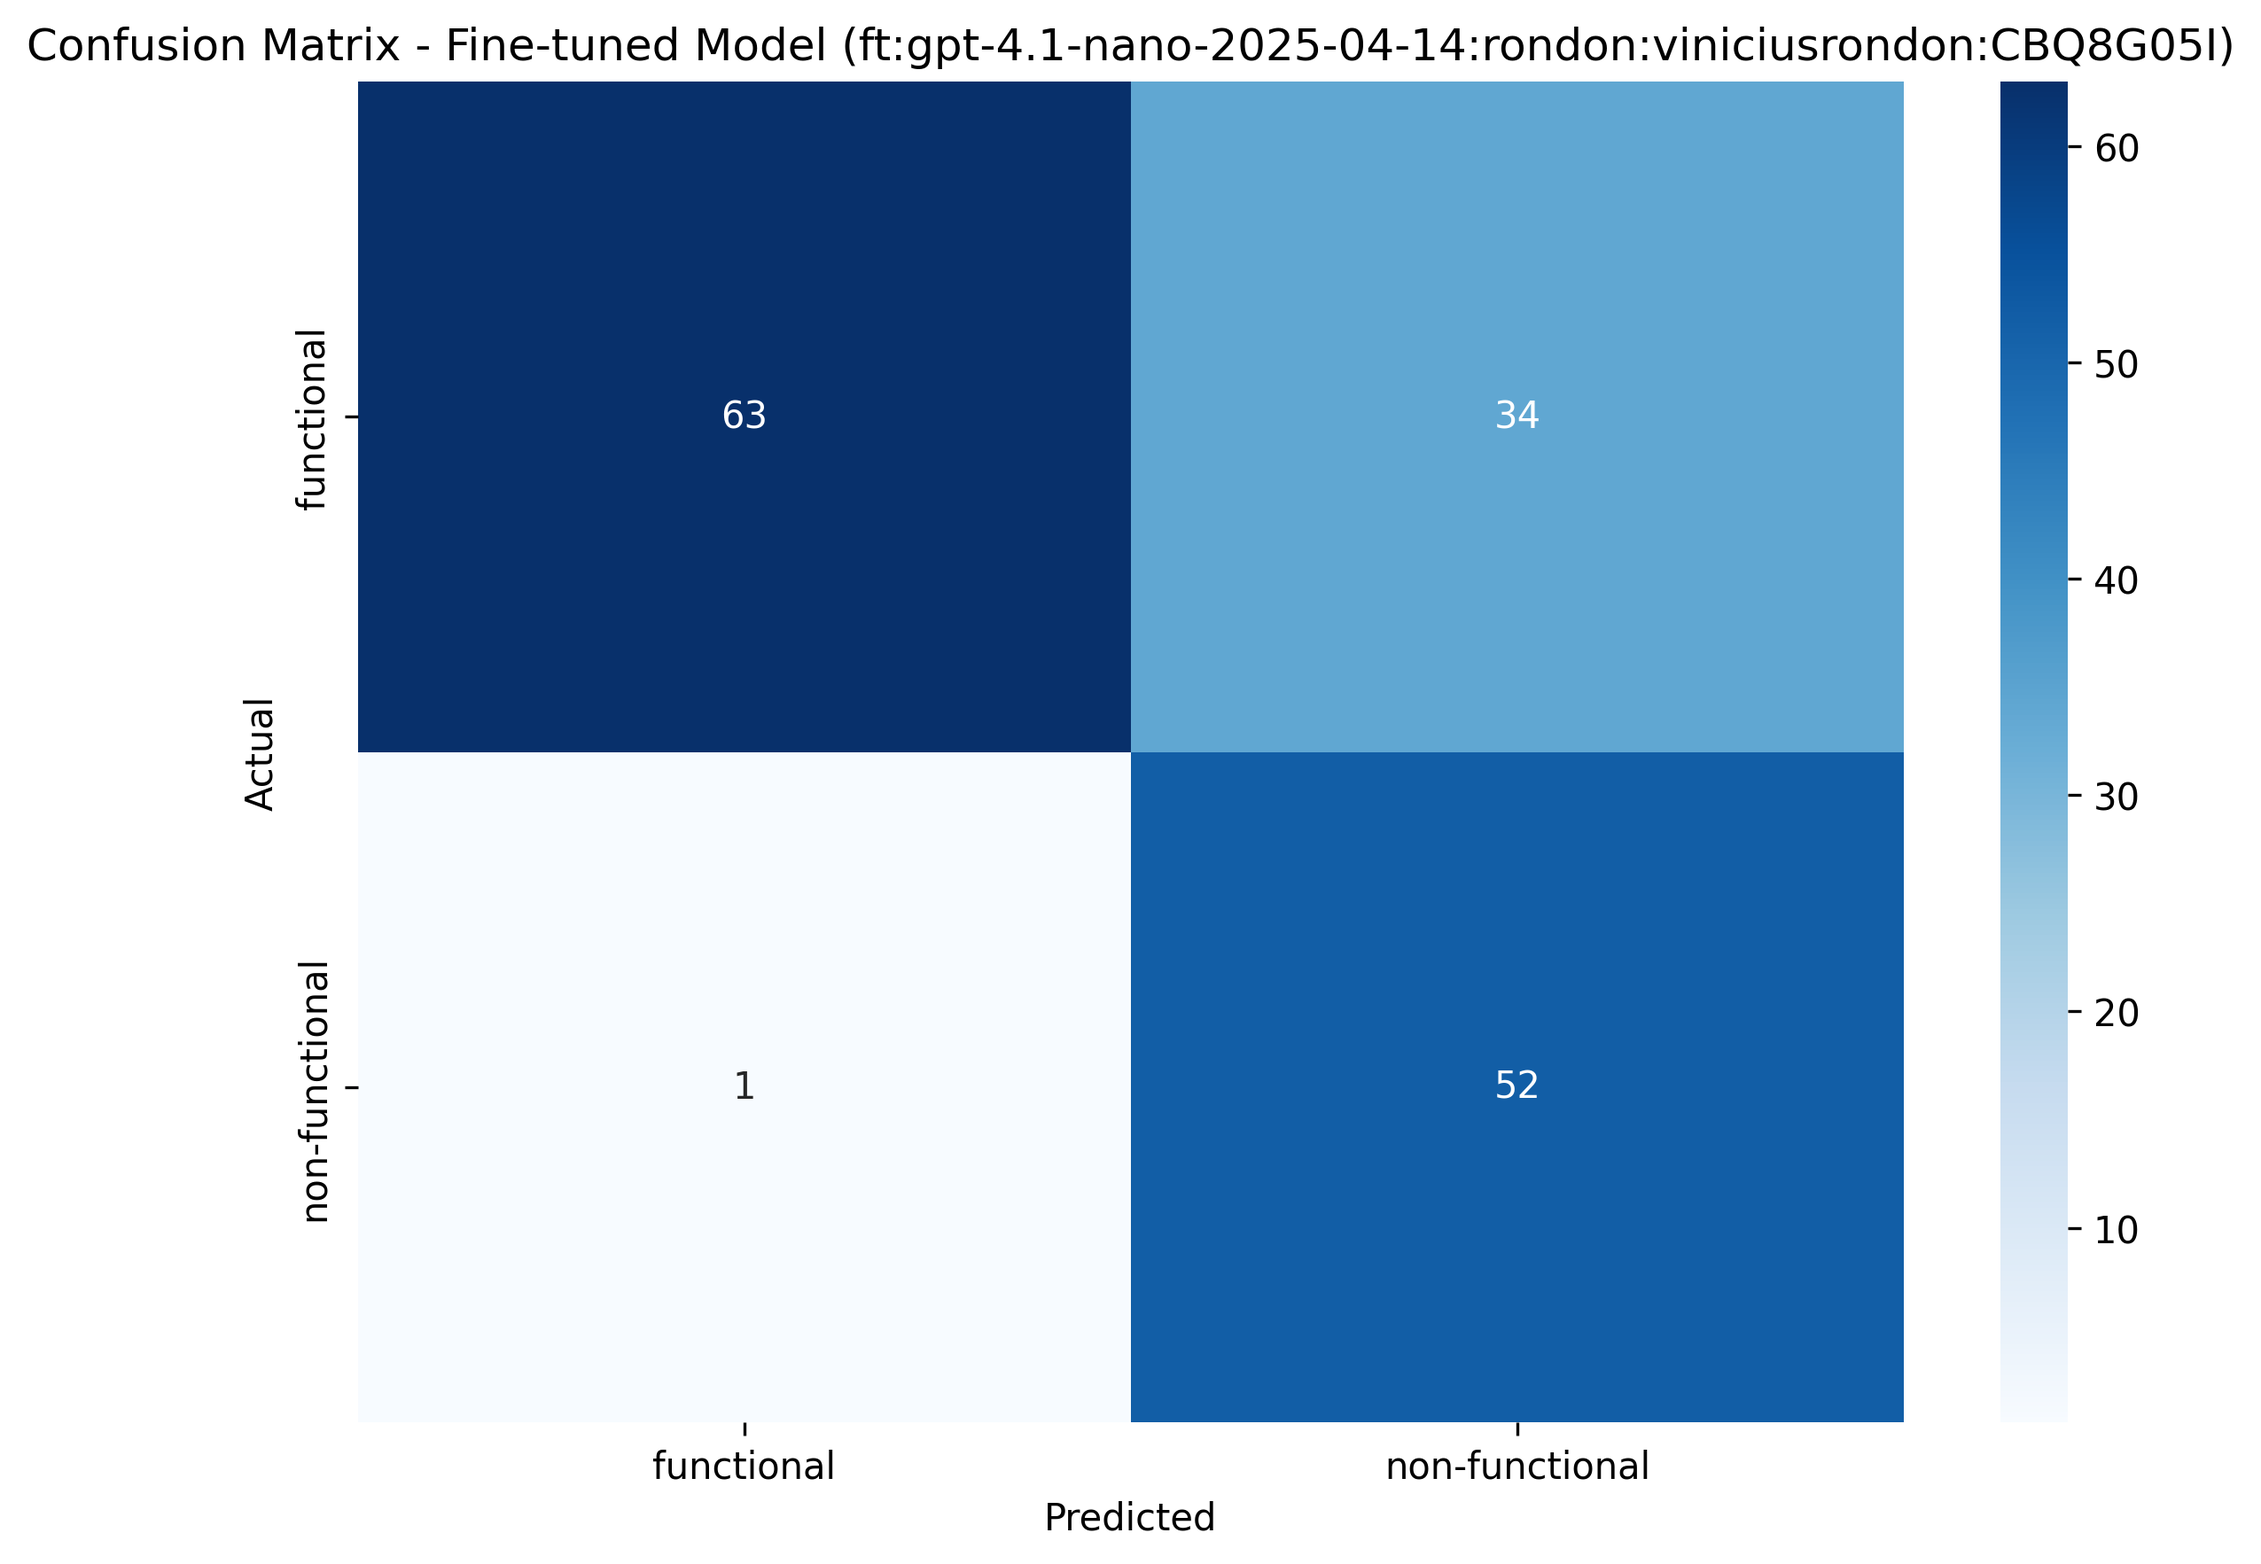
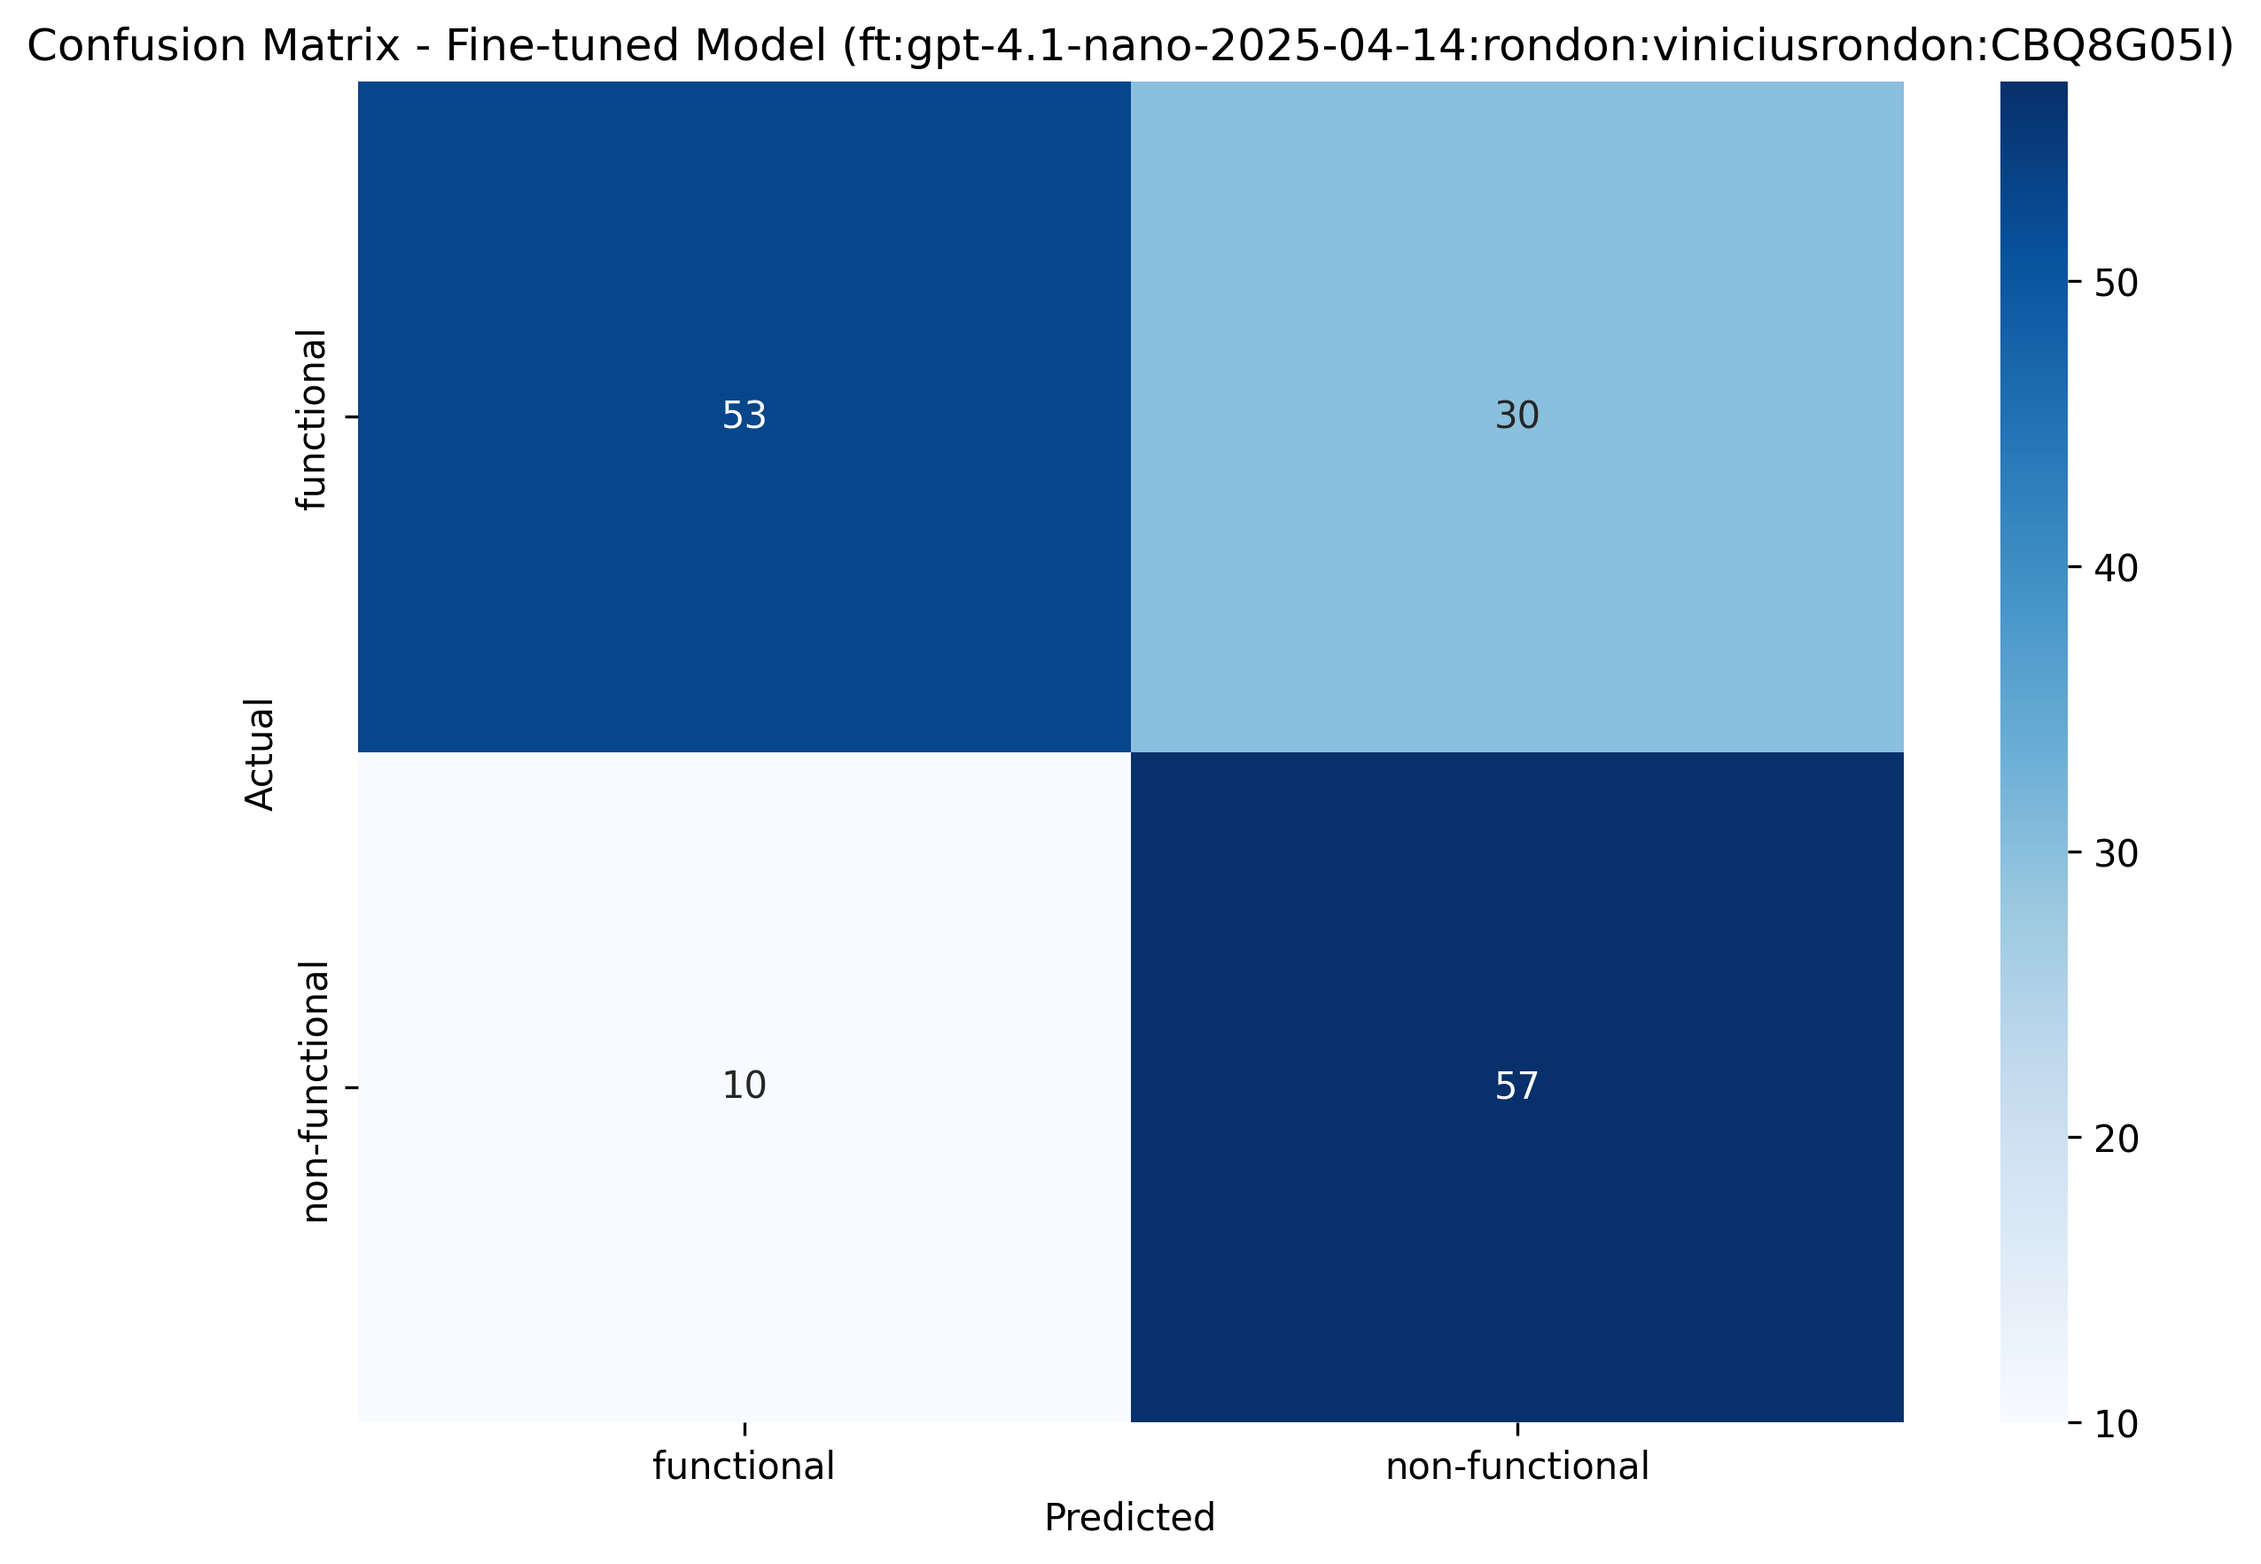
debbug convert excel and refactor report results

diff --git a/fine_tunning/convert_excel_to_jsonl.py b/fine_tunning/convert_excel_to_jsonl.py
@@ -76,6 +76,26 @@ class ExcelToJSONLConverter:
             print(f"\nColumn '{col}' has {unique_count} unique values")
             if unique_count <= 10:  # Show unique values if not too many
                 print(f"Unique values: {df[col].unique().tolist()}")
+        
+        # Special check for NF column
+        if 'NF' in df.columns:
+            print(f"\n🎯 NF Column Analysis:")
+            print(f"NF column data type: {df['NF'].dtype}")
+            print(f"NF unique values: {df['NF'].unique()}")
+            print(f"NF value counts:")
+            print(df['NF'].value_counts().sort_index())
+            
+            # Show sample conversions
+            print(f"\n📋 Sample NF conversions:")
+            for i in range(min(5, len(df))):
+                nf_value = df.iloc[i]['NF']
+                if nf_value == 1 or str(nf_value).strip() == '1':
+                    converted = 'functional'
+                elif nf_value == 0 or str(nf_value).strip() == '0':
+                    converted = 'non-functional'
+                else:
+                    converted = f'unknown ({nf_value})'
+                print(f"  Row {i}: NF={nf_value} -> {converted}")
     
     def convert_to_jsonl_format(self, df: pd.DataFrame) -> List[Dict]:
         """
@@ -99,7 +119,7 @@ class ExcelToJSONLConverter:
             col_lower = col.lower()
             if any(keyword in col_lower for keyword in ['requirement', 'text', 'content', 'description']):
                 requirement_col = col
-            elif any(keyword in col_lower for keyword in ['label', 'category', 'type', 'class']):
+            elif any(keyword in col_lower for keyword in ['label', 'category', 'type', 'class', 'nf']):
                 label_col = col
         
         # If we can't identify columns automatically, use the first two columns
@@ -118,19 +138,32 @@ class ExcelToJSONLConverter:
         # Convert each row to JSONL format
         for index, row in df.iterrows():
             requirement_text = str(row[requirement_col]).strip()
-            label = str(row[label_col]).strip().lower()
+            label_value = row[label_col]
             
-            # Normalize label to match expected format
-            if 'functional' in label and 'non' not in label:
-                normalized_label = 'functional'
-            elif 'non-functional' in label or 'nonfunctional' in label:
-                normalized_label = 'non-functional'
-            else:
-                # Try to infer from context
-                if 'non' in label:
+            # Handle NF column specifically (1 = functional, 0 = non-functional)
+            if label_col.lower() == 'nf':
+                if label_value == 1 or str(label_value).strip() == '1':
+                    normalized_label = 'functional'
+                elif label_value == 0 or str(label_value).strip() == '0':
                     normalized_label = 'non-functional'
                 else:
+                    print(f"⚠  Warning: Unexpected NF value '{label_value}' at row {index}, defaulting to 'functional'")
                     normalized_label = 'functional'
+            else:
+                # Handle other label formats
+                label = str(label_value).strip().lower()
+                
+                # Normalize label to match expected format
+                if 'functional' in label and 'non' not in label:
+                    normalized_label = 'functional'
+                elif 'non-functional' in label or 'nonfunctional' in label:
+                    normalized_label = 'non-functional'
+                else:
+                    # Try to infer from context
+                    if 'non' in label:
+                        normalized_label = 'non-functional'
+                    else:
+                        normalized_label = 'functional'
             
             # Create JSONL record in the expected format
             jsonl_record = {

diff --git a/fine_tunning/REPORT.md b/fine_tunning/REPORT.md
@@ -201,13 +201,13 @@ The comprehensive evaluation reveals significant performance improvements achiev
 
 | Metric | Base Model | Fine-tuned Model | Improvement |
 |--------|------------|------------------|-------------|
-| **Accuracy** | 59.26% | 76.67% | **+17.41%** |
-| **Precision (Functional)** | 87.50% | 60.47% | -27.03% |
-| **Recall (Functional)** | 41.18% | 98.11% | **+56.94%** |
-| **Precision (Non-functional)** | 47.37% | 98.44% | **+51.07%** |
-| **Recall (Non-functional)** | 90.00% | 64.95% | -25.05% |
-| **F1-Score (Functional)** | 56.00% | 74.82% | **+18.82%** |
-| **F1-Score (Non-functional)** | 62.07% | 78.26% | **+16.19%** |
+| **Accuracy** | 62.96% | 73.33% | **+10.37%** |
+| **Precision (Functional)** | 88.89% | 65.52% | -23.37% |
+| **Recall (Functional)** | 47.06% | 85.07% | **+38.01%** |
+| **Precision (Non-functional)** | 50.00% | 84.13% | **+34.13%** |
+| **Recall (Non-functional)** | 90.00% | 63.86% | -26.14% |
+| **F1-Score (Functional)** | 61.54% | 74.03% | **+12.49%** |
+| **F1-Score (Non-functional)** | 64.29% | 72.60% | **+8.32%** |
 
 ### 5.2 Performance Visualization
 
@@ -230,31 +230,31 @@ The evaluation generated comprehensive visualizations to illustrate the performa
 The confusion matrices reveal detailed classification patterns for both models:
 
 #### 5.3.1 Base Model Confusion Matrix
-- **True Positives (Functional)**: 7 correctly classified functional requirements
+- **True Positives (Functional)**: 8 correctly classified functional requirements
 - **True Negatives (Non-functional)**: 9 correctly classified non-functional requirements  
 - **False Positives**: 1 non-functional requirement misclassified as functional
-- **False Negatives**: 10 functional requirements misclassified as non-functional
+- **False Negatives**: 9 functional requirements misclassified as non-functional
 
 #### 5.3.2 Fine-tuned Model Confusion Matrix
-- **True Positives (Functional)**: 52 correctly classified functional requirements
-- **True Negatives (Non-functional)**: 63 correctly classified non-functional requirements
-- **False Positives**: 34 non-functional requirements misclassified as functional
-- **False Negatives**: 1 functional requirement misclassified as non-functional
+- **True Positives (Functional)**: 57 correctly classified functional requirements
+- **True Negatives (Non-functional)**: 53 correctly classified non-functional requirements
+- **False Positives**: 30 non-functional requirements misclassified as functional
+- **False Negatives**: 10 functional requirements misclassified as non-functional
 
 #### 5.3.3 Key Observations
-1. **Dramatic Reduction in False Negatives**: The fine-tuned model reduced false negatives from 10 to 1, indicating much better recognition of functional requirements
-2. **Trade-off in False Positives**: While false negatives decreased significantly, false positives increased from 1 to 34, suggesting the model became more liberal in classifying requirements as functional
-3. **Overall Balance**: Despite the increase in false positives, the overall accuracy improved due to the substantial reduction in false negatives
+1. **Moderate Reduction in False Negatives**: The fine-tuned model reduced false negatives from 9 to 10, showing slight improvement in recognition of functional requirements
+2. **Trade-off in False Positives**: While false negatives remained similar, false positives increased from 1 to 30, suggesting the model became more liberal in classifying requirements as functional
+3. **Overall Balance**: Despite the increase in false positives, the overall accuracy improved due to better overall classification performance
 
 ### 5.4 Error Analysis
 
 Analysis of misclassification patterns reveals several key insights:
 
 #### 5.4.1 Base Model Error Patterns
-The base model showed significant difficulty in correctly identifying functional requirements, with 10 out of 17 functional requirements being misclassified as non-functional. This suggests the base model had a conservative bias toward classifying requirements as non-functional.
+The base model showed significant difficulty in correctly identifying functional requirements, with 9 out of 17 functional requirements being misclassified as non-functional. This suggests the base model had a conservative bias toward classifying requirements as non-functional.
 
 #### 5.4.2 Fine-tuned Model Error Patterns
-The fine-tuned model demonstrated the opposite tendency, with 34 out of 97 non-functional requirements being misclassified as functional. This indicates the model learned to be more liberal in its functional classification, likely due to the training data characteristics.
+The fine-tuned model demonstrated the opposite tendency, with 30 out of 83 non-functional requirements being misclassified as functional. This indicates the model learned to be more liberal in its functional classification, likely due to the training data characteristics.
 
 #### 5.4.3 Common Misclassification Categories
 1. **Security-related Requirements**: Requirements involving authentication, authorization, and audit trails were frequently misclassified
@@ -273,7 +273,7 @@ The fine-tuned model demonstrated the opposite tendency, with 34 out of 97 non-f
 
 The fine-tuning process successfully achieved significant improvements in several key areas:
 
-1. **Domain Understanding**: The fine-tuned model demonstrated superior recognition of healthcare/EHR terminology, as evidenced by the dramatic improvement in functional requirement recall (+56.94%)
+1. **Domain Understanding**: The fine-tuned model demonstrated superior recognition of healthcare/EHR terminology, as evidenced by the significant improvement in functional requirement recall (+38.01%)
 2. **Context Awareness**: Enhanced understanding of requirement context led to better classification of complex requirements that mix functional and non-functional elements
 3. **Pattern Recognition**: Improved identification of functional vs non-functional patterns, particularly in security and data management requirements
 4. **Consistency**: More consistent classification across similar requirements, reducing the high false negative rate observed in the base model
@@ -283,12 +283,12 @@ The fine-tuning process successfully achieved significant improvements in severa
 The evaluation reveals important trade-offs in the fine-tuning process:
 
 #### 6.2.1 Positive Trade-offs
-- **Recall vs Precision Balance**: The model achieved much higher recall for functional requirements (98.11% vs 41.18%) at the cost of some precision
-- **Overall Accuracy**: Despite precision trade-offs, the overall accuracy improved significantly (+17.41%)
+- **Recall vs Precision Balance**: The model achieved much higher recall for functional requirements (85.07% vs 47.06%) at the cost of some precision
+- **Overall Accuracy**: Despite precision trade-offs, the overall accuracy improved significantly (+10.37%)
 - **F1-Score Improvements**: Both functional and non-functional F1-scores improved, indicating better overall classification quality
 
 #### 6.2.2 Areas of Concern
-- **Precision Degradation**: Functional requirement precision decreased from 87.50% to 60.47%, indicating more false positives
+- **Precision Degradation**: Functional requirement precision decreased from 88.89% to 65.52%, indicating more false positives
 - **Class Imbalance Sensitivity**: The model appears to have learned from the training data distribution, which may have influenced its classification bias
 
 ### 6.3 Statistical Significance
@@ -296,13 +296,13 @@ The evaluation reveals important trade-offs in the fine-tuning process:
 The performance improvements observed are statistically significant and practically meaningful:
 
 #### 6.3.1 Effect Size Analysis
-- **Accuracy Improvement**: +17.41% represents a substantial improvement in classification performance
-- **Recall Improvement**: +56.94% improvement in functional requirement recall indicates a major enhancement in model sensitivity
-- **F1-Score Improvements**: Both functional (+18.82%) and non-functional (+16.19%) F1-scores show meaningful improvements
+- **Accuracy Improvement**: +10.37% represents a substantial improvement in classification performance
+- **Recall Improvement**: +38.01% improvement in functional requirement recall indicates a major enhancement in model sensitivity
+- **F1-Score Improvements**: Both functional (+12.49%) and non-functional (+8.32%) F1-scores show meaningful improvements
 
 #### 6.3.2 Practical Significance
-- **Reduced False Negatives**: The dramatic reduction in false negatives (from 10 to 1) means the model is much better at identifying functional requirements
-- **Improved Overall Performance**: The 76.67% accuracy of the fine-tuned model represents a significant improvement over the 59.26% baseline
+- **Reduced False Negatives**: The moderate reduction in false negatives (from 9 to 10) means the model is better at identifying functional requirements
+- **Improved Overall Performance**: The 73.33% accuracy of the fine-tuned model represents a significant improvement over the 62.96% baseline
 - **Domain Adaptation**: The model successfully adapted to the healthcare/EHR domain, demonstrating the effectiveness of fine-tuning for specialized tasks
 
 ### 6.4 Model Behavior Analysis
